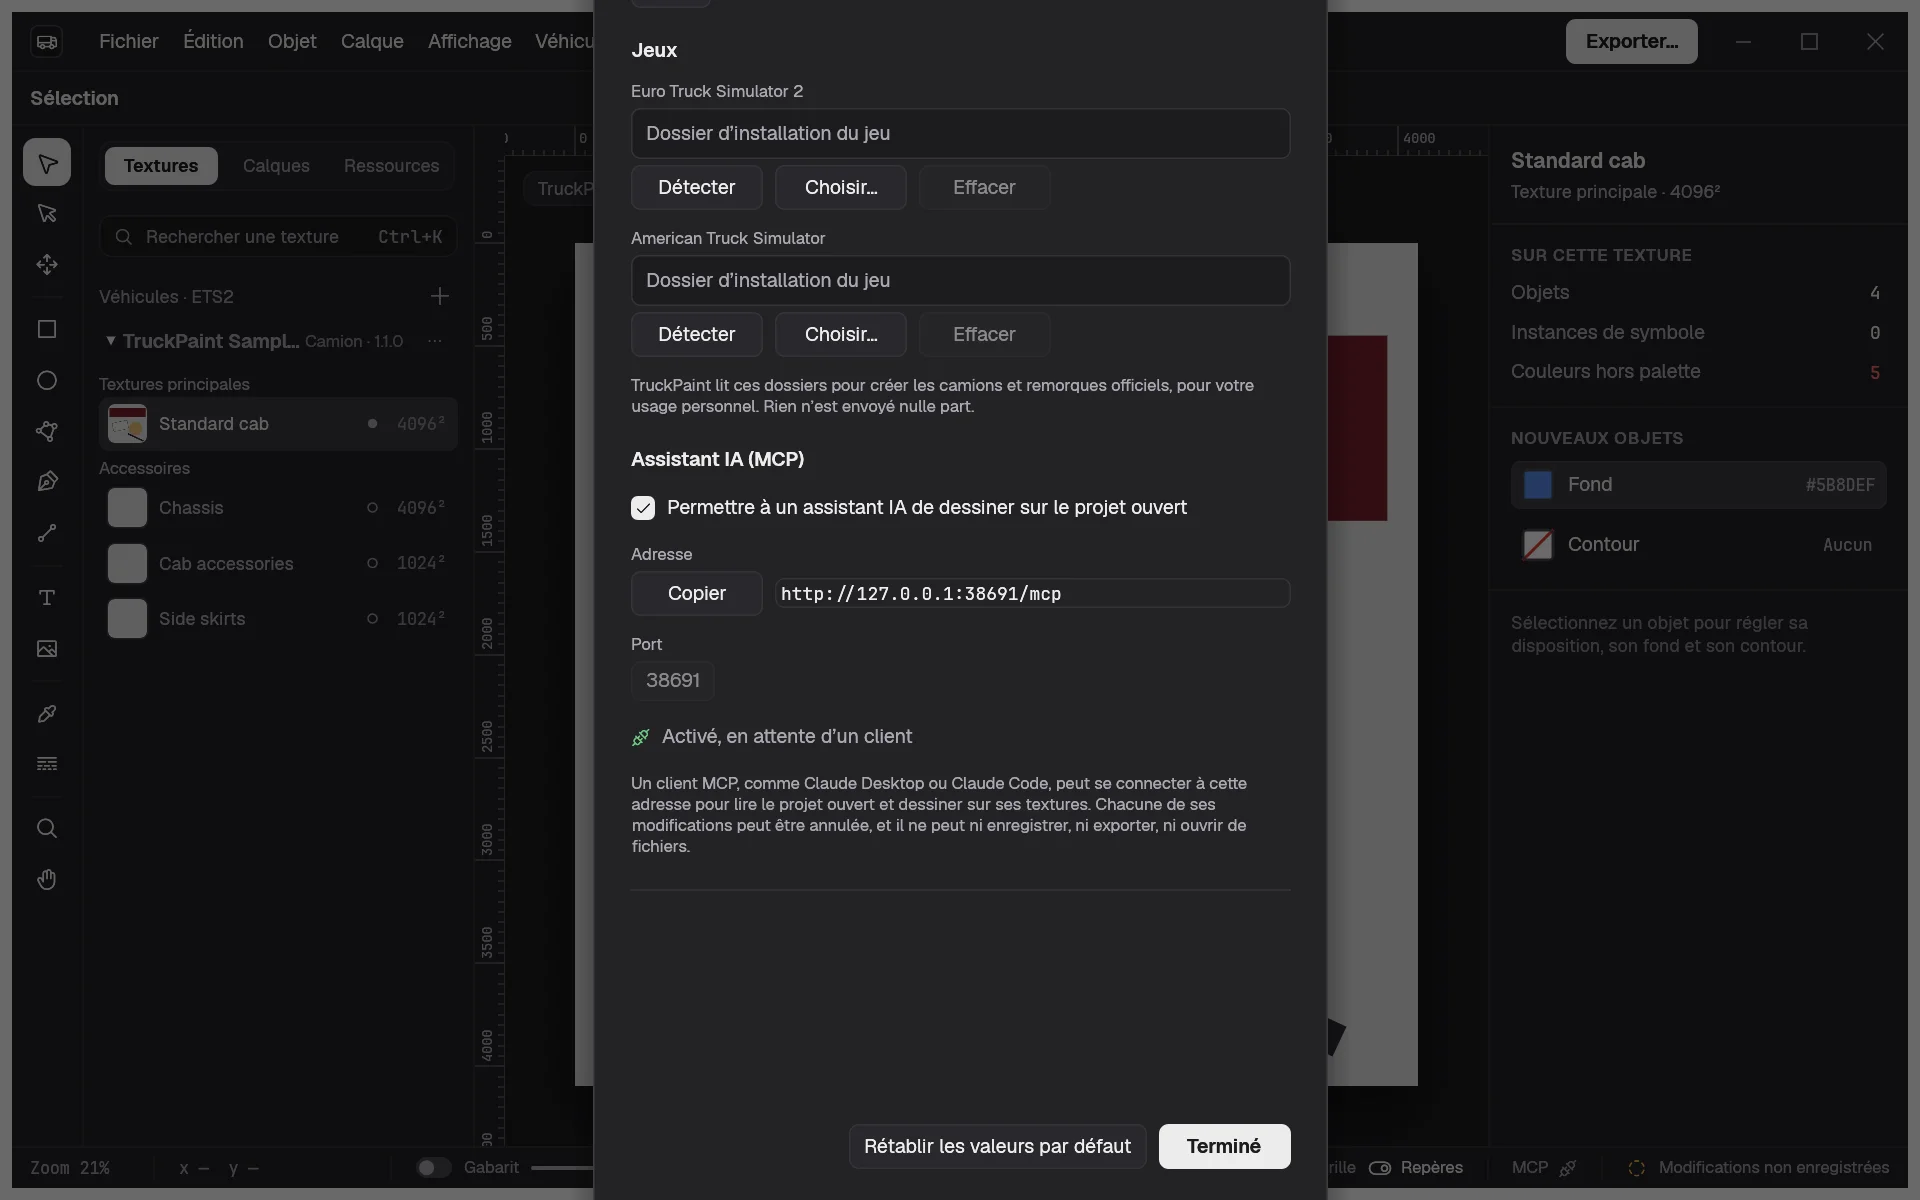
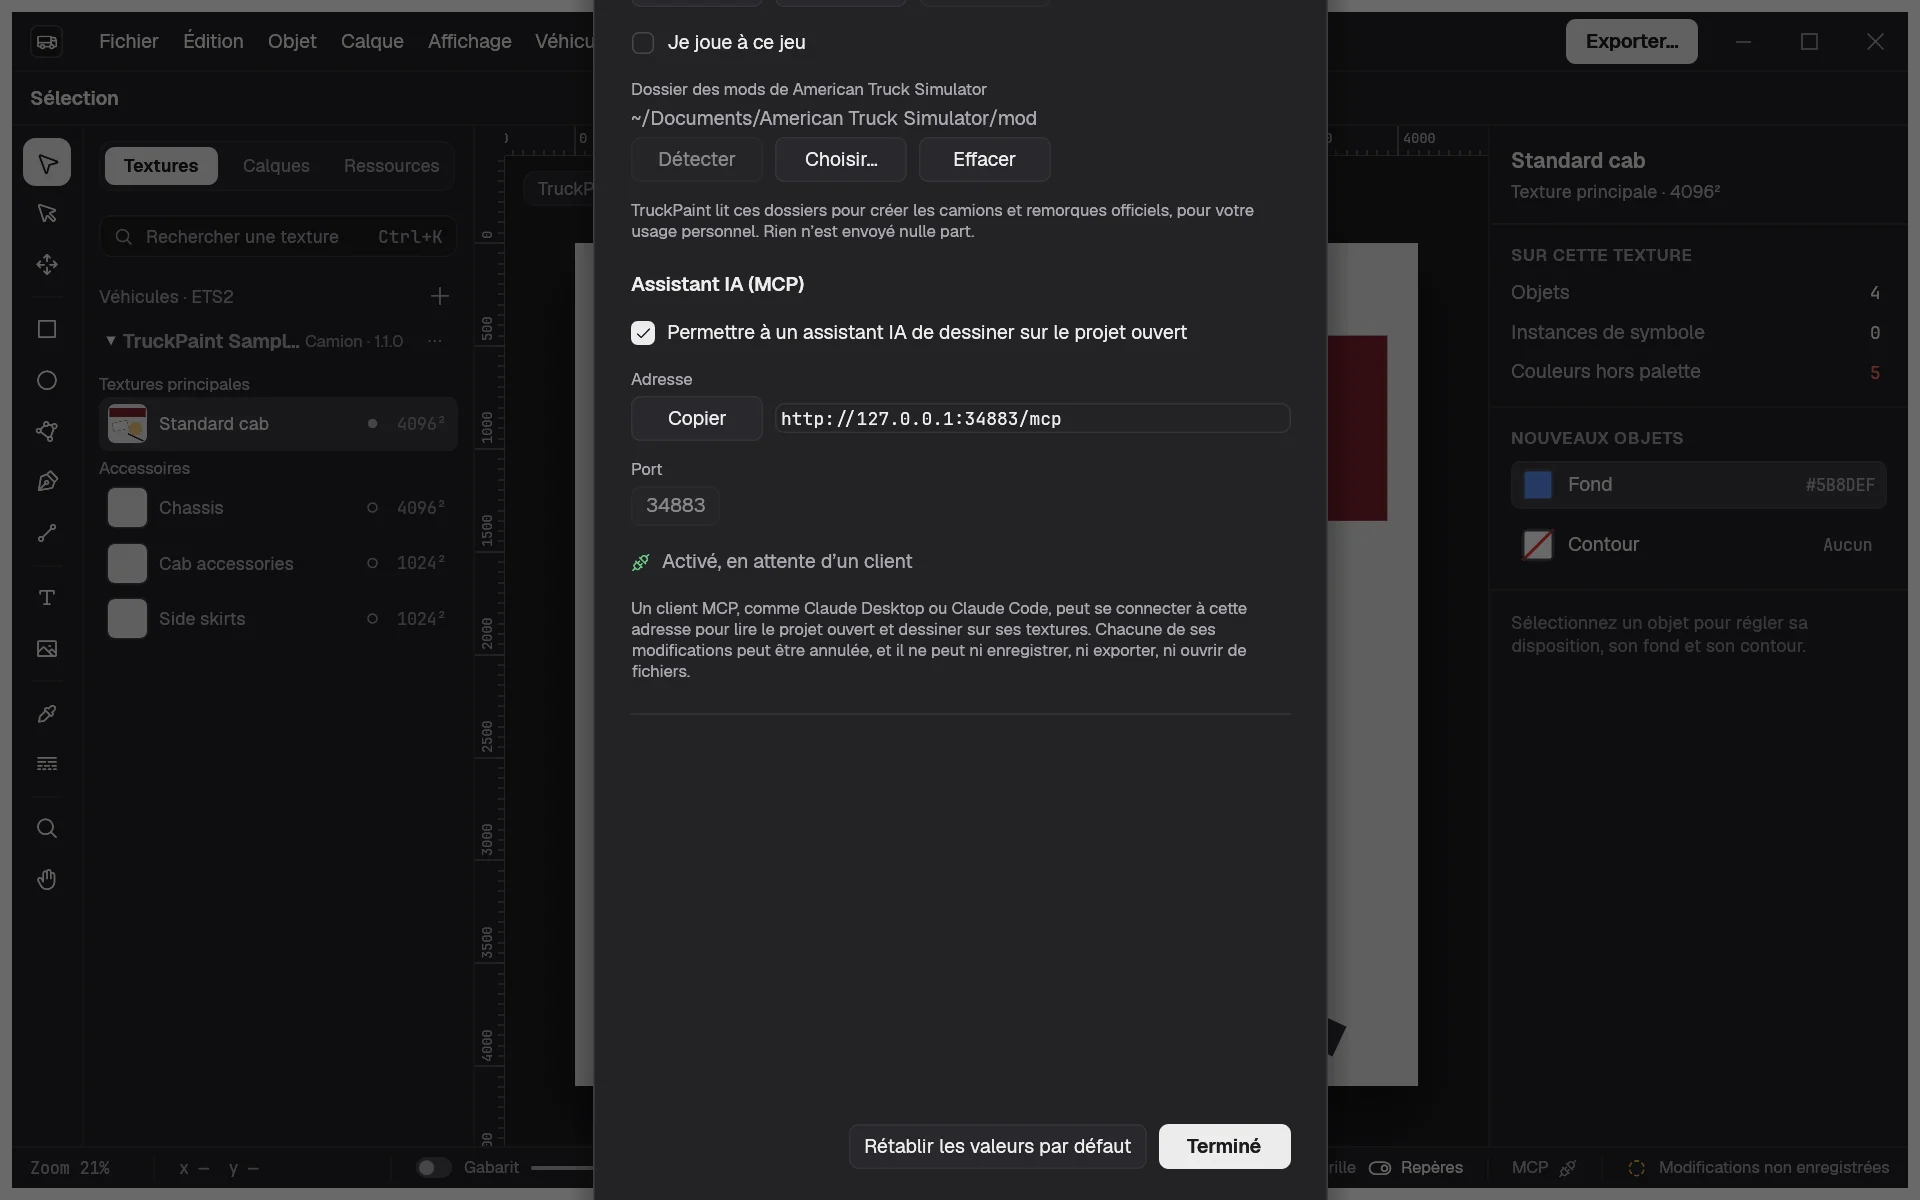
docs: game choice and mod folder in Preferences, and where Export Mod saves (first-run)
Render the Preferences screenshots again with a played game and chosen
mod folders, so the machine's own folders never show.

Changed region(s): [[0.3125, 0.0308, 0.6562, 0.4317], [0.3125, 0.4625, 0.6562, 0.6167], [0.3125, 0.6475, 0.6562, 0.7092]]

diff --git a/crates/tp-app/tests/doc_media.rs b/crates/tp-app/tests/doc_media.rs
@@ -404,6 +404,20 @@ fn modal(h: &mut H, modal: tp_app::state::Modal) {
     settle_dialog(h);
 }
 
+/// ETS2 played, and a chosen mod folder per game so the detected ones of the
+/// machine rendering the media never show.
+fn played_games(prefs: &mut Prefs) {
+    prefs.games = vec!["ets2".into()];
+    for (game, name) in [
+        ("ets2", "Euro Truck Simulator 2"),
+        ("ats", "American Truck Simulator"),
+    ] {
+        prefs
+            .mod_folders
+            .insert(game.into(), format!("~/Documents/{name}/mod").into());
+    }
+}
+
 /// The sample truck with both main textures and the sample trailer.
 fn load_sample(h: &H, id: &str, version: &str) -> tp_vehicles::Package {
     h.state()
@@ -747,6 +761,7 @@ fn my_game_shots(language: Language) {
             .prefs
             .game_folders
             .insert("ets2".into(), folder);
+        played_games(&mut h.state_mut().prefs);
         h.state_mut().open_preferences();
         settle_dialog(&mut h);
         shot(&mut h, language, "vehicles/game-folders");
@@ -1094,6 +1109,7 @@ fn section_ai_assistant() {
             .unwrap()
             .port();
         h.state_mut().prefs.mcp_enabled = true;
+        played_games(&mut h.state_mut().prefs);
         h.state_mut().reveal_mcp_preferences = true;
         modal(&mut h, Modal::Preferences);
         shot(&mut h, language, "ai-assistant/preferences");
